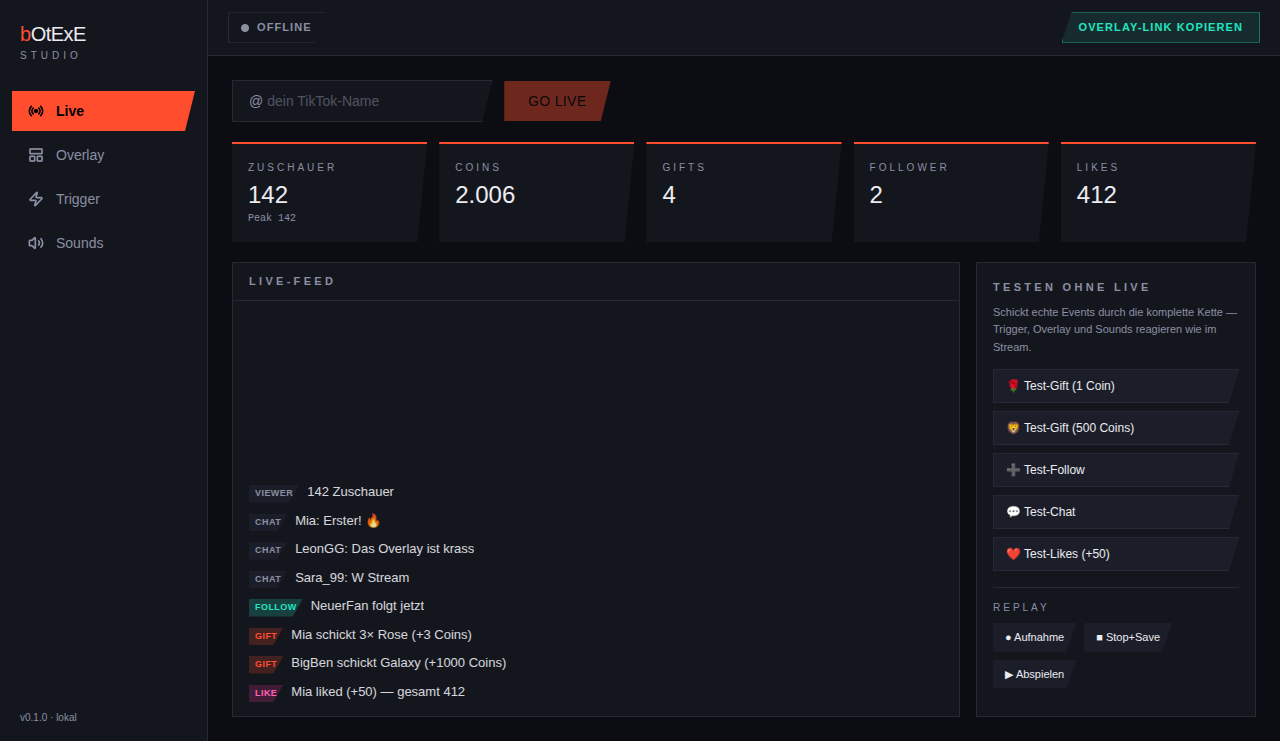
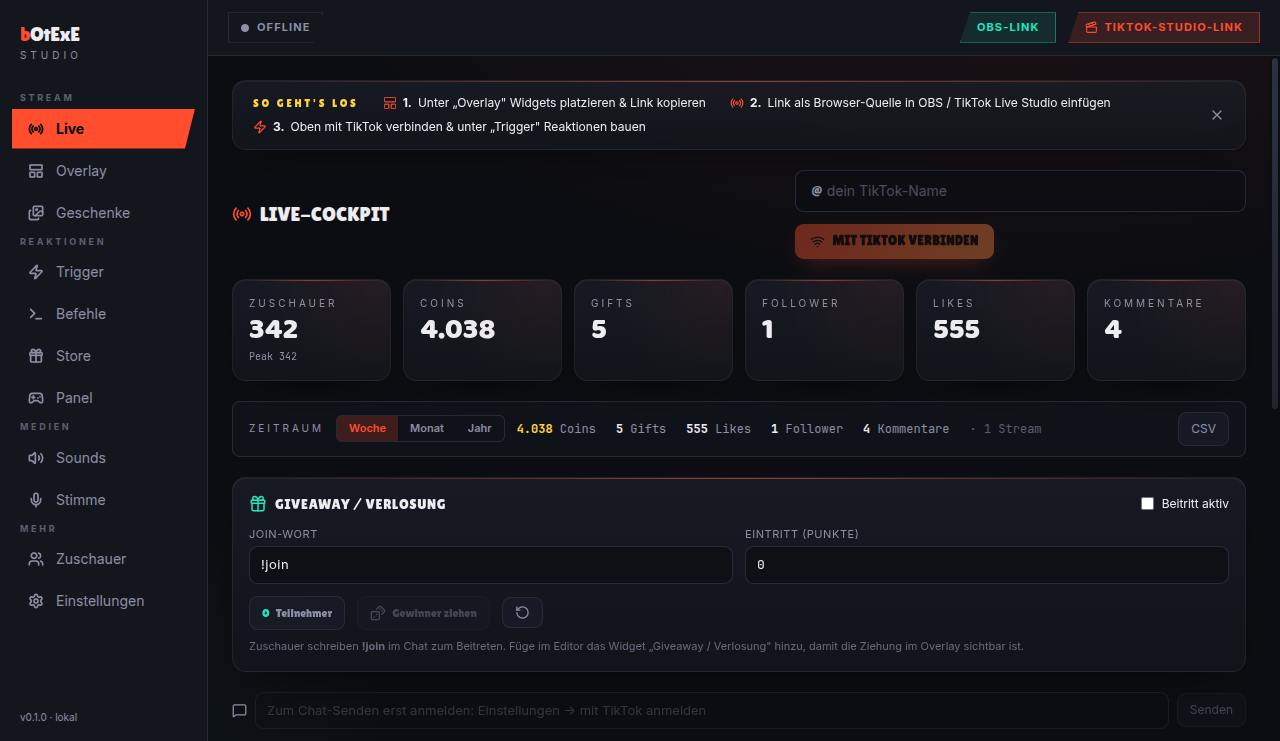
docs: aktuelle Screenshots (v0.2.0) für die Landingpage
- e2e-app-live.png + e2e-overlay.png frisch gegen den aktuellen Build erzeugt
  (volle aktuelle UI: neue Sidebar, Live-Cockpit, OBS/TTLS-Link-Buttons,
  deaktiviertes Chat-Senden ohne Login; reiches Overlay mit Stat-Chips,
  Coin-Goal, glühendem Gift-Alert, 2 Arcade-Bestenlisten, Feed, Chat).
- e2e-snapshot.ts: Onboarding-Tour vor dem Screenshot wegklicken, reicheres
  Demo-Layout (stat-chips + 2 Leaderboards + top-gift), mehr Demo-Events,
  Session-Reset für saubere/reproduzierbare Shots.
- README: frisches Overlay als Hero, Feature-Galerie (Glücksrad/Designs/Coin-Glas).

diff --git a/apps/desktop/scripts/e2e-snapshot.ts b/apps/desktop/scripts/e2e-snapshot.ts
@@ -57,26 +57,36 @@ const DEMO_LAYOUT = {
   name: 'E2E-Demo',
   canvas: { width: 1920, height: 1080, background: 'transparent' },
   layers: [
-    { id: 'l-alert', widgetType: 'gift-alert', name: 'Gift-Alert', x: 560, y: 300, w: 800, h: 360, z: 10, visible: true, props: { minCoins: 0, durationMs: 60000 } },
-    { id: 'l-follow', widgetType: 'follow-alert', name: 'Follow-Alert', x: 40, y: 60, w: 460, h: 90, z: 5, visible: true, props: { durationMs: 60000 } },
-    { id: 'l-goal', widgetType: 'goal-bar', name: 'Goal', x: 560, y: 40, w: 760, h: 90, z: 4, visible: true, props: { metric: 'coins', target: 1000 } },
-    { id: 'l-board', widgetType: 'leaderboard', name: 'Leaderboard', x: 1520, y: 60, w: 360, h: 300, z: 3, visible: true, props: { limit: 5 } },
-    { id: 'l-feed', widgetType: 'gift-feed', name: 'Gift-Feed', x: 1520, y: 420, w: 380, h: 260, z: 2, visible: true, props: { max: 5, ttlMs: 120000 } },
-    { id: 'l-chat', widgetType: 'chat-box', name: 'Chat', x: 40, y: 620, w: 440, h: 420, z: 1, visible: true, props: { max: 8 } },
+    { id: 'l-chips', widgetType: 'stat-chips', name: 'Chips', x: 560, y: 36, w: 800, h: 60, z: 6, visible: true, props: { metrics: 'viewers,likes,follows,gifts' } },
+    { id: 'l-goal', widgetType: 'goal-bar', name: 'Goal', x: 560, y: 116, w: 760, h: 70, z: 4, visible: true, props: { metric: 'coins', target: 5000 } },
+    { id: 'l-alert', widgetType: 'gift-alert', name: 'Gift-Alert', x: 560, y: 420, w: 800, h: 360, z: 10, visible: true, props: { minCoins: 0, durationMs: 60000 } },
+    { id: 'l-follow', widgetType: 'follow-alert', name: 'Follow-Alert', x: 40, y: 50, w: 460, h: 90, z: 5, visible: true, props: { durationMs: 60000 } },
+    { id: 'l-board', widgetType: 'leaderboard', name: 'Top Gifter', x: 1480, y: 50, w: 410, h: 220, z: 3, visible: true, props: { source: 'gifts', limit: 4, title: 'Top Gifter', style: 'arcade' } },
+    { id: 'l-likes', widgetType: 'leaderboard', name: 'Top Likes', x: 1480, y: 290, w: 410, h: 200, z: 3, visible: true, props: { source: 'likes', limit: 3, title: 'Top Likes', style: 'arcade' } },
+    { id: 'l-feed', widgetType: 'gift-feed', name: 'Gift-Feed', x: 40, y: 170, w: 430, h: 280, z: 2, visible: true, props: { max: 5, ttlMs: 120000 } },
+    { id: 'l-chat', widgetType: 'chat-box', name: 'Chat', x: 40, y: 600, w: 440, h: 400, z: 1, visible: true, props: { max: 8 } },
   ],
   createdAt: '2026-06-11T00:00:00.000Z',
   updatedAt: '2026-06-11T00:00:00.000Z',
 };
 
 const TEST_EVENTS = [
-  { type: 'viewer_count', ts: 0, viewerCount: 142 },
+  { type: 'viewer_count', ts: 0, viewerCount: 342 },
   { type: 'chat', ts: 0, user: { id: 'mia', nickname: 'Mia' }, text: 'Erster! 🔥' },
-  { type: 'chat', ts: 0, user: { id: 'leon', nickname: 'LeonGG' }, text: 'Das Overlay ist krass' },
+  { type: 'chat', ts: 0, user: { id: 'leon', nickname: 'LeonGG' }, text: 'Das Overlay ist mega 😍' },
   { type: 'chat', ts: 0, user: { id: 'sara', nickname: 'Sara_99' }, text: 'W Stream' },
+  { type: 'chat', ts: 0, user: { id: 'nova', nickname: 'Nova' }, text: 'sauberes Design!' },
   { type: 'follow', ts: 0, user: { id: 'neu', nickname: 'NeuerFan' } },
+  // Likes (für Top-Likes-Liste)
+  { type: 'like', ts: 0, user: { id: 'mia', nickname: 'Mia' }, likeCount: 320, totalLikes: 320 },
+  { type: 'like', ts: 0, user: { id: 'leon', nickname: 'LeonGG' }, likeCount: 145, totalLikes: 465 },
+  { type: 'like', ts: 0, user: { id: 'nova', nickname: 'Nova' }, likeCount: 90, totalLikes: 555 },
+  // Gifts (für Top-Gifter-Liste + Goal + Feed; BigBen als Top-Spender, großer Alert)
   { type: 'gift', ts: 0, user: { id: 'mia', nickname: 'Mia' }, gift: { slug: 'Rose', count: 3, coinsPerUnit: 1, totalCoins: 3 } },
-  { type: 'gift', ts: 0, user: { id: 'ben', nickname: 'BigBen' }, gift: { slug: 'Galaxy', count: 1, coinsPerUnit: 1000, totalCoins: 1000 } },
-  { type: 'like', ts: 0, user: { id: 'mia', nickname: 'Mia' }, likeCount: 50, totalLikes: 412 },
+  { type: 'gift', ts: 0, user: { id: 'nova', nickname: 'Nova' }, gift: { slug: 'Heart', count: 5, coinsPerUnit: 5, totalCoins: 25 } },
+  { type: 'gift', ts: 0, user: { id: 'sara', nickname: 'Sara_99' }, gift: { slug: 'Finger Heart', count: 2, coinsPerUnit: 5, totalCoins: 10 } },
+  { type: 'gift', ts: 0, user: { id: 'leon', nickname: 'LeonGG' }, gift: { slug: 'Galaxy', count: 1, coinsPerUnit: 1000, totalCoins: 1000 } },
+  { type: 'gift', ts: 0, user: { id: 'ben', nickname: 'BigBen' }, gift: { slug: 'Galaxy', count: 3, coinsPerUnit: 1000, totalCoins: 3000 } },
 ];
 
 async function main(): Promise<void> {
@@ -89,6 +99,19 @@ async function main(): Promise<void> {
   await new Promise((r) => ws.on('open', r));
   await send(ws, 'Page.enable');
   await send(ws, 'Runtime.enable');
+
+  // 0. Onboarding-Tour als „gesehen" markieren + Live-Palette an, dann neu laden —
+  //    sonst verdeckt die Willkommens-Tour den App-Screenshot.
+  await evalJs(ws, `localStorage.setItem('bx-onboarding-done','1'); localStorage.setItem('bx-palette-live','1'); true`);
+  await send(ws, 'Page.reload');
+  await sleep(2500);
+  await send(ws, 'Page.enable');
+  await send(ws, 'Runtime.enable');
+
+  // Sauberer Start: Session-Zähler/Listen zurücksetzen (sonst kumulieren sich
+  // Events über mehrere Snapshot-Läufe).
+  await evalJs(ws, `window.studio.resetSession(); true`);
+  await sleep(400);
 
   // 1. Layout über echte IPC speichern + aktivieren
   const saveResult = await evalJs(ws, `window.studio.saveLayout(${JSON.stringify(DEMO_LAYOUT)})`);

diff --git a/README.md b/README.md
@@ -7,7 +7,7 @@ Ein freier **TikFinity-Ersatz** für Windows: Geschenke, Alerts, Overlays, Sound
 
 [![Download](https://img.shields.io/badge/⬇️_Download-Windows_Setup.exe-ff4d2e?style=for-the-badge)](https://github.com/dOtExE97/botexe-studio/releases/latest)
 
-![bOtExE Studio Overlay](docs/overlay-premium.png)
+![bOtExE Studio Overlay](docs/e2e-overlay.png)
 
 > 🧪 **Frühe Version — erster echter Test!** Die App läuft, aber sie wird gerade auf echten, verschiedenen PCs erprobt. Wenn was hakt oder dir eine Widget-Idee kommt: **bitte melden** (in der App: *Einstellungen → Fehler melden / Funktion wünschen*). Genau dafür ist diese Phase da. 🙏
 >
@@ -41,11 +41,15 @@ Dein TikTok-Live  →  bOtExE Studio (auf deinem PC)  →  ein Overlay-Link  →
 
 <div align="center">
 
+**Die App (Live-Cockpit):**
+
 ![App](docs/e2e-app-live.png)
 
-| Overlay-Editor | Glücksrad | Widget-Designs |
+**Ein paar schöne Features:**
+
+| Glücksrad | Widget-Designs | Coin-Glas |
 |:---:|:---:|:---:|
-| ![Editor](docs/e2e-overlay.png) | ![Glücksrad](docs/wheel.png) | ![Designs](docs/widget-styles.png) |
+| ![Glücksrad](docs/wheel.png) | ![Designs](docs/widget-styles.png) | ![Coin-Glas](docs/overlay-gift-jar.png) |
 
 </div>
 